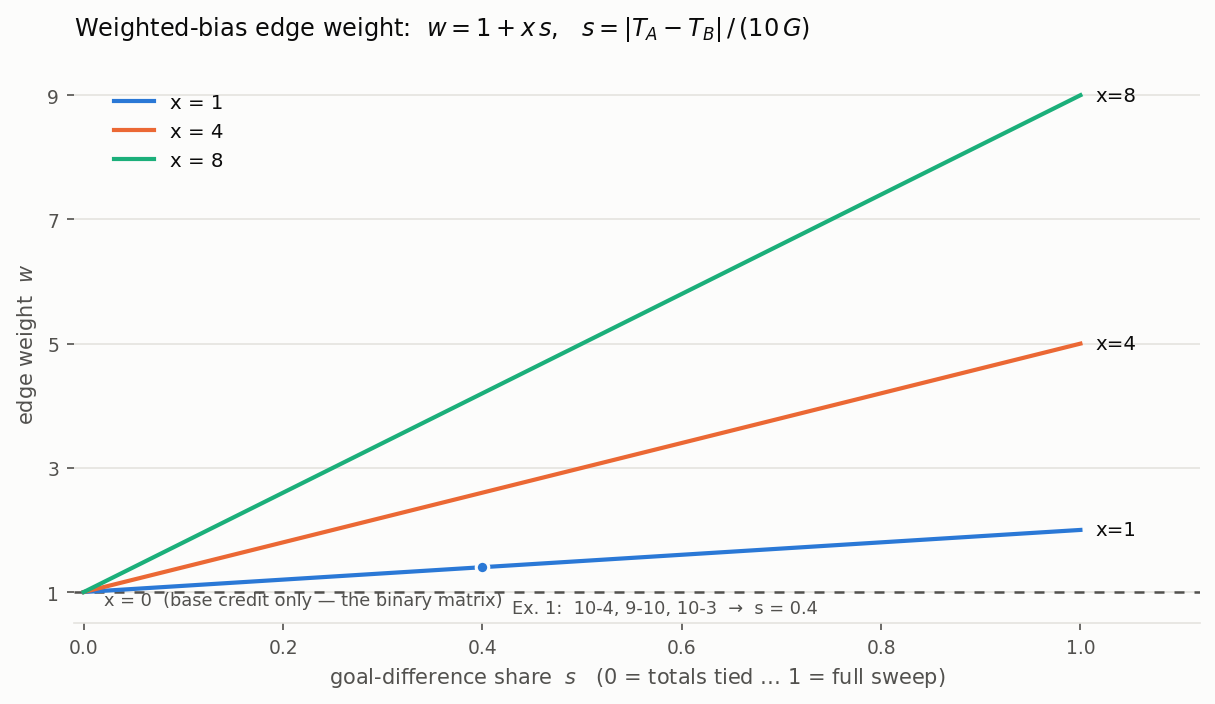
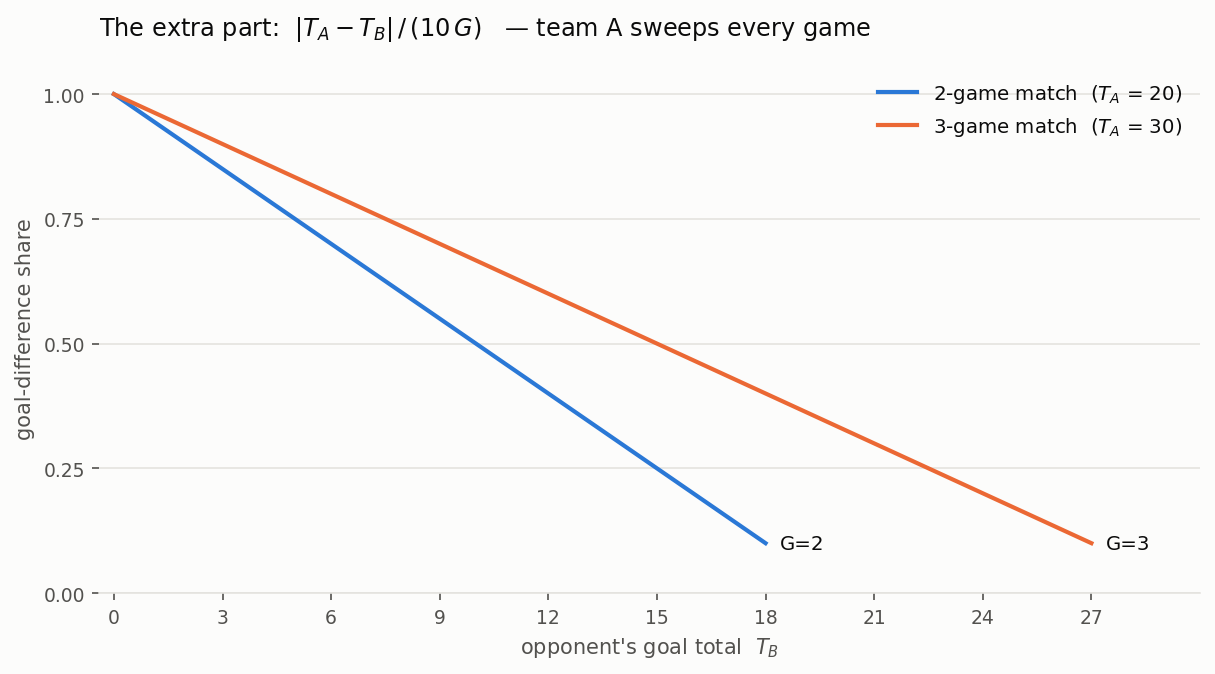
back to the two-line plot, drop the HTML companion
The figure is again the merged 2-/3-game plot vs the opponent's goal
total, labeled as what it shows under the 1 + x formula: the extra
part |T_A - T_B|/(10G) that x scales. weight_function.html removed —
the matplotlib PNGs in the README are the single source.

diff --git a/score_function/README.md b/score_function/README.md
@@ -106,19 +106,19 @@ between narrow and dominant wins survives, which is exactly what $x$
 controls: at small $x$ the ranking hugs plain bias PageRank; at large
 $x$, sweeping 10–0 outweighs grinding out 10–9.
 
-The plot demonstrates how the extra part affects the weight. On the
-x-axis is the **goal-difference share** $s = |T_A-T_B|/(10G)$, which
-already folds the game count away (a 2-game 20–8 and a 3-game 30–12 sit
-at the same $s = 0.6$); the lines are $w = 1 + x s$:
+The plot demonstrates the extra part — the goal-difference share
+$|T_A-T_B|/(10G)$ that $x$ scales — for 2- and 3-game matches in which
+team $A$ wins every game:
 
 <picture>
   <source media="(prefers-color-scheme: dark)" srcset="weight_function_dark.png">
-  <img alt="Edge weight versus goal-difference share: lines w = 1 + x*s for x = 0, 1, 4, 8, all starting at the base credit 1 and fanning out to 1+x at a full sweep"
+  <img alt="Goal-difference share vs opponent goal total for 2- and 3-game sweeps: both lines fall linearly from 1 at a shutout to 0 as the opponent catches up"
        src="weight_function_light.png">
 </picture>
 
-*(Generated by matplotlib; the interactive version with hover readouts is
-[`weight_function.html`](weight_function.html).)*
+*(Generated by matplotlib. The 3-game line is partly theoretical — a
+real best-of-three winner playing 3 games concedes one, so
+$T_A \le 29$ and $T_B \ge 10$.)*
 
 A match with no recorded game scores contributes the base credit $1$
 only. Matches, $d$ and $x$ are wired through `compute_scores.py`; the
